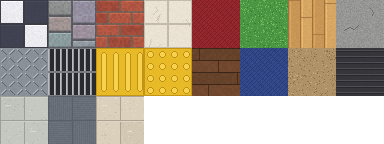
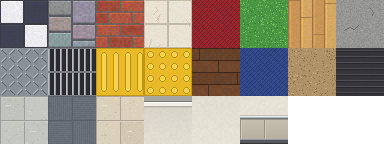
立ち絵を地図の右に移してゲージを外し、教室の壁・黒板・時計・観葉植物を自作で描き直す
Claude-Session: https://claude.ai/code/session_017gxvkc2TW4xYgG5MuSL3N1

Changed region(s): [[0.375, 0.6667, 0.75, 1.0]]

diff --git a/data/maps/escape.js b/data/maps/escape.js
@@ -7,9 +7,9 @@ G.defineMap('escape', {
   name: '夕方の空き教室',
   tiles: [  // 17×13マスの地図のまん中に、床が横11×縦7マスの部屋（まわりは暗い外側）
     '#################',
-    '###44444444447###',
-    '###55555555558###',
-    '###66666666669###',
+    '###UUUUUUUUUU7###',
+    '###VVVVVVVVVV8###',
+    '###WWWWWWWWWW9###',
     '###QQQQQQQQQQP###',  // 床は灰色のPタイル（記号 Q）、扉の前にゴムマット（記号 P）
     '###QQQQQQQQQQQ###',
     '###QQQQQQQQQQQ###',
@@ -21,10 +21,11 @@ G.defineMap('escape', {
     '#################',
   ],
   objects: [
-    { tile: [I, 0, 25, 3, 2], x: 4, y: 1, solid: false },              // 黒板
-    { tile: [I, 0, 25, 3, 2], x: 7, y: 1, solid: false },              // 黒板
-    { tile: [I, 5, 19], x: 11, y: 2, solid: false },                    // 時計
-    { tile: [I, 7, 34, 1, 2], x: 13, y: 9 },                           // 植木
+    // 壁は自作のタイル（記号 U・V・W）。黒板は壁の2段目に置くと目の高さになる
+    { tile: ['objects', 0, 6, 3, 2], x: 4, y: 2, solid: false },       // 黒板
+    { tile: ['objects', 0, 6, 3, 2], x: 7, y: 2, solid: false },       // 黒板
+    { tile: ['objects', 7, 0, 1, 1], x: 11, y: 2, solid: false },      // 掛け時計
+    { tile: ['objects', 3, 6, 1, 1], x: 13, y: 10 },                   // 観葉植物
     // 自作の家具・小物（data/tilesets/objects.js。スチール製）
     { tile: ['objects', 4, 0, 1, 2], x: 3, y: 3, solid: 'bottom' },    // スチール書庫
     { tile: ['objects', 3, 0, 1, 2], x: 4, y: 3, solid: 'bottom' },    // ロッカー
@@ -101,7 +102,7 @@ G.defineMap('escape', {
       ['text', 'ぼたん', 'お酒だったらよかったのになぁ。'],
     ] }] },
     { id: 'plant', x: 13, y: 10, pages: [{ list: [
-      ['text', '', '窓ぎわの植木。'],
+      ['text', '', '教室のすみの観葉植物。'],
       ['text', 'ぼたん', 'ちゃんとお水もらえてるんですかねぇ。'],
     ] }] },
     { id: 'vending', x: 10, y: 4, pages: [{ list: [

diff --git a/data/system.js b/data/system.js
@@ -4,13 +4,13 @@ G.defineSystem({
   subtitle: '（システムとデザインの試作）',
   // タイトル画面の下に出す表示（素材の著作権表示など）
   credits: ['タイル素材：ドット絵世界'],
-  // 画面の配置（画面は816×624）。map：地図の枠、message：文章の枠、portrait：立ち絵の枠、gauge：右端のゲージ
+  // 画面の配置（画面は816×624）。map：地図の枠、message：文章の枠、portrait：立ち絵の枠、gauge：右端のゲージ（いまは使っていない。例 gauge: { x: 787, y: 12, h: 604, var: 'affection', max: 100 }）
   // layout を消すと、地図が全画面で文章が下に重なる配置になる
   layout: {
     map: { x: 14, y: 14, w: 518, h: 432 },
     message: { x: 14, y: 456, w: 518, h: 156 },
-    portrait: { x: 440, y: 0, w: 330, h: 624, default: 'ぼたん' },  // 会話中は話している人、それ以外（地の文も）は default の人（主人公）
-    gauge: { x: 787, y: 12, h: 604, var: 'affection', max: 100 },  // var の変数の値だけ満ちる
+    portrait: { x: 540, y: 0, w: 276, h: 624, default: 'ぼたん' },  // 地図の枠に重ねない（右端まで）。はみ出した髪は枠で切る
+  // 会話中は話している人、それ以外（地の文も）は default の人（主人公）
   },
   // 立ち絵。img に画像（下そろえで枠の高さに合わせる）を書く。img がないと仮の人影
   portraits: {
@@ -71,5 +71,8 @@ G.defineSystem({
     'Q': { tile: ['floor', 0, 2] },   // 灰色のPタイル（大学の教室）
     'R': { tile: ['floor', 1, 2] },   // タイルカーペット
     'S': { tile: ['floor', 2, 2] },   // ベージュのPタイル
+    'U': { solid: true, tile: ['floor', 3, 2] },   // 教室の壁（上：天井の見切り）
+    'V': { solid: true, tile: ['floor', 4, 2] },   // 教室の壁（中）
+    'W': { solid: true, tile: ['floor', 5, 2] },   // 教室の壁（下：腰壁と幅木）
   },
 });

diff --git a/data/tilesets/objects.js b/data/tilesets/objects.js
@@ -1,8 +1,9 @@
-// objects — 自作の家具・小物（tools/sprites/make_objects.py で描いたもの。スチール製を前提に描く。48px、8列×6段）
+// objects — 自作の家具・小物（tools/sprites/make_objects.py で描いたもの。スチール製を前提に描く。48px、8列×8段）
 // 地図では { tile: ['objects', 列, 段, 幅, 高さ], x, y }。置き場所は make_objects.py の OBJECTS の表
 //   0〜1段：自販機（赤）0 / 自販機（青）1 / 冷蔵ショーケース 2 / スチールロッカー 3 / スチール書庫 4 / 書類棚 5 / スチール書棚 6（どれも1×2）、
 //           掛け時計 7（0段）、ごみ箱 7（1段）
 //   2段：長机（3人掛け）0（3×1）、長机（2人掛け）3（2×1）、教卓 5（2×1）、ワゴン 7
 //   3段：椅子（後ろ 0・正面 1・横 2）、パイプ椅子 3、丸テーブル 4、段ボール箱 5、消火器 6
 //   4〜5段：会議机 0（2×2）、スチールの棚 2（2×2）、掲示板 4（4段、2×1）、ホワイトボード 6（4段、2×1）、ソファ 4（5段、2×1）
-G.defineTileset('objects', { src: 'img/tiles/objects.png', size: 48, cols: 8, rows: 6 });
+//   6〜7段：黒板 0（3×2、壁の2段目に置く）、観葉植物 3（6段、1×1）
+G.defineTileset('objects', { src: 'img/tiles/objects.png', size: 48, cols: 8, rows: 8 });

diff --git a/data/tilesets/floor.js b/data/tilesets/floor.js
@@ -1,5 +1,5 @@
 // floor — 自作の床タイル（tools/sprites/make_tiles.py で描いたもの。48px、8列×3段）
 // 1段目：市松 石 レンガ 大理石 赤じゅうたん 人工芝 体育館の床 コンクリート
 // 2段目：縞鋼板 グレーチング 点字ブロック（線） 点字ブロック（点） 濃い木の床 青じゅうたん 土 ゴムマット
-// 3段目：灰色のPタイル タイルカーペット ベージュのPタイル（大学の教室・廊下）
+// 3段目：灰色のPタイル タイルカーペット ベージュのPタイル（大学の教室・廊下）、教室の壁（上・中・下）
 G.defineTileset('floor', { src: 'img/tiles/floor.png', size: 48, cols: 8, rows: 3 });

diff --git a/files.js b/files.js
@@ -2,7 +2,7 @@
 // マップなどを足したら scripts に1行足す（順番どおりに読み込む。main.js は最後）。
 // 版の番号 v は tools/stamp.py が書き換える。
 window.FILES = {
-  v: '20261127072653',
+  v: '20261127073242',
   scripts: [
     'engine/core.js',
     'engine/world.js',

diff --git a/tools/sprites/make_objects.py b/tools/sprites/make_objects.py
@@ -1,4 +1,4 @@
-"""自作の家具・小物を描いて img/tiles/objects.png に書き出す（1マス48px、8列×6段）。
+"""自作の家具・小物を描いて img/tiles/objects.png に書き出す（1マス48px、8列×8段）。
 参考画像は寸法と描き込みの細かさだけ合わせ、デザインは自分で考えたもの（参考画像は写さない・リポジトリに入れない）。
 
 大学の教室・研究棟にある家具として、スチール（塗装した鋼板と、銀色のパイプ）を前提に描く。
@@ -21,7 +21,7 @@ from PIL import Image, ImageDraw
 
 ROOT = Path(__file__).resolve().parents[2]
 T = 48
-im = Image.new('RGBA', (T * 8, T * 6), (0, 0, 0, 0))
+im = Image.new('RGBA', (T * 8, T * 8), (0, 0, 0, 0))
 d = ImageDraw.Draw(im)
 px = im.load()
 OUT = (30, 30, 38)
@@ -591,6 +591,65 @@ def wide_shelf(c, r):     # スチールのオープン棚（2×2）：ファイ
         put(x + 3, yy + 23, (240, 242, 246))
 
 
+def blackboard(c, r):     # 黒板（3×2、壁につける）：アルミの枠、緑の板、消し跡、チョーク受け
+    """壁の中段（地図の y が壁の2段目）に置くと、板の下端が床から約20ドット（約75cm）、高さ約1.5mになる"""
+    x, y = cell(c, r)
+    W = T * 3
+    d.rectangle((x + 2, y + 28, x + W - 3, y + 72), fill=OUT)
+    gfill(x + 3, y + 29, x + W - 4, y + 71, SILVER, kx=(1.1, 0.88), spec=None)
+    d.line((x + 3, y + 29, x + W - 4, y + 29), fill=(240, 244, 250))
+    green = (52, 86, 70)
+    gfill(x + 6, y + 32, x + W - 7, y + 68, green, kx=(1.06, 0.92), ky=(1.04, 0.94), spec=(0.3, 0.18, 0.06), step=0.03)
+    d.line((x + 6, y + 32, x + W - 7, y + 32), fill=sh(green, 0.7))          # 枠の内側の影
+    d.line((x + 6, y + 32, x + 6, y + 68), fill=sh(green, 0.76))
+    rnd = random.Random(c * 7 + r)
+    for _ in range(9):                                                       # 消し跡（横に流れた白いかすれ）
+        sx, sy, ln = rnd.randint(10, W - 40), rnd.randint(36, 62), rnd.randint(14, 30)
+        for k in range(ln):
+            if rnd.random() < 0.7:
+                put(x + sx + k, y + sy + rnd.choice((0, 0, 1)), sh(green, 1.16))
+    for k in range(3):                                                       # うっすら残った字
+        yy = y + 38 + k * 8
+        xx = x + 14 + rnd.randint(0, 20)
+        for j in range(rnd.randint(4, 8)):
+            if rnd.random() < 0.8:
+                d.line((xx + j * 6, yy, xx + j * 6 + 3, yy + rnd.choice((0, 2))), fill=sh(green, 1.3))
+    d.rectangle((x + 1, y + 72, x + W - 2, y + 76), fill=OUT)                # チョーク受け
+    gfill(x + 2, y + 73, x + W - 3, y + 75, SILVER, kx=(1.1, 0.88), ky=(1.2, 0.8), spec=None)
+    for i, col in enumerate(((246, 246, 240), (240, 220, 90), (230, 110, 110))):
+        d.rectangle((x + 20 + i * 7, y + 72, x + 24 + i * 7, y + 73), fill=col)
+    d.rectangle((x + 100, y + 69, x + 112, y + 73), fill=OUT)                # 黒板消し
+    gfill(x + 101, y + 70, x + 111, y + 71, (70, 80, 120), spec=None)
+    d.line((x + 101, y + 72, x + 111, y + 72), fill=(220, 220, 214))
+
+
+def plant(c, r):         # 観葉植物（1×1）：白い陶器の鉢、葉の茂み
+    x, y = cell(c, r)
+    shadow(x + 11, y + 41, x + 37, y + 47)
+    leaf = (70, 140, 70)
+    tube_v(x + 23, y + 24, y + 34, 2, (120, 90, 60))                          # 幹
+    rnd = random.Random(4)
+    blobs = [(24, 10, 9), (15, 16, 8), (33, 16, 8), (19, 24, 7), (30, 25, 7), (24, 18, 8)]
+    for bx, by, rr in blobs:                                                 # 輪郭
+        d.ellipse((x + bx - rr - 1, y + by - rr - 1, x + bx + rr + 1, y + by + rr), fill=OUT)
+    for bx, by, rr in blobs:                                                 # 葉のかたまり（左上が明るい）
+        for yy in range(by - rr, by + rr):
+            for xx in range(bx - rr, bx + rr + 1):
+                dx, dy = (xx - bx) / rr, (yy - by) / rr
+                if dx * dx + dy * dy <= 1:
+                    k = 1.15 - 0.35 * (dx + dy) / 2 - 0.1 * (dy > 0.4)
+                    put(x + xx, y + yy, sh(leaf, round(k / 0.1) * 0.1))
+    for _ in range(40):                                                      # 葉先の光と葉の間の影
+        xx, yy = rnd.randint(9, 39), rnd.randint(2, 31)
+        if px[x + xx, y + yy][3] and px[x + xx, y + yy][:3] != OUT:
+            put(x + xx, y + yy, sh(leaf, rnd.choice((1.45, 0.62))))
+    d.rectangle((x + 15, y + 31, x + 32, y + 45), fill=OUT)                  # 鉢
+    cylinder(x + 16, y + 32, x + 31, y + 44, (232, 230, 224))
+    d.rectangle((x + 14, y + 30, x + 33, y + 33), fill=OUT)                  # 鉢の縁
+    cylinder(x + 15, y + 31, x + 32, y + 32, (244, 242, 238))
+    d.line((x + 17, y + 33, x + 30, y + 33), fill=(70, 54, 40))              # 土
+
+
 # ---------------- 配置（列, 段, 幅, 高さ, 名前）
 OBJECTS = [
     (0, 0, 1, 2, '自販機（赤）', lambda: vending(0, 0, (196, 50, 48), (236, 222, 214))),
@@ -618,6 +677,8 @@ OBJECTS = [
     (4, 4, 2, 1, '掲示板', lambda: board(4, 4, True)),
     (6, 4, 2, 1, 'ホワイトボード', lambda: board(6, 4, False)),
     (4, 5, 2, 1, 'ソファ', lambda: sofa(4, 5)),
+    (0, 6, 3, 2, '黒板', lambda: blackboard(0, 6)),
+    (3, 6, 1, 1, '観葉植物', lambda: plant(3, 6)),
 ]
 
 if __name__ == '__main__':

diff --git a/tools/sprites/make_tiles.py b/tools/sprites/make_tiles.py
@@ -5,6 +5,7 @@
   img/tiles/floor.png … 床タイル 8列×3段（並べても継ぎ目が出ないように描く。記号は system.js の legend の A〜P）
     1段目：市松 石 レンガ 大理石 赤じゅうたん 人工芝 体育館の床 コンクリート
     2段目：縞鋼板 グレーチング 点字ブロック（線） 点字ブロック（点） 濃い木の床 青じゅうたん 土 ゴムマット
+    3段目：灰色のPタイル タイルカーペット ベージュのPタイル（記号 Q〜S）、教室の壁（上・中・下の3段で1枚。記号 U〜W）
 """
 import random
 from pathlib import Path
@@ -263,11 +264,50 @@ def tile_carpet(seed):   # タイルカーペット（50cm角、毛の流れを1
     return im
 
 
+WALL = (230, 226, 214)
+
+
+def wall(part):   # 大学の教室の壁（3段で1枚の壁）：0＝天井の見切りと上の壁、1＝壁、2＝腰見切り・腰壁・幅木
+    im, d = tile(WALL)
+    px = im.load()
+    for y in range(T):   # 上ほどわずかに暗い（天井の陰）
+        k = {0: 0.93 + 0.05 * y / T, 1: 0.98 + 0.02 * y / T, 2: 1.0}[part]
+        for x in range(T):
+            px[x, y] = shade(WALL, k)
+    noise(im, 0.012, 30 + part, 2)
+    if part == 0:
+        d.rectangle((0, 0, T - 1, 4), fill=(168, 166, 160))          # 天井
+        d.line((0, 5, T - 1, 5), fill=(120, 118, 114))
+        d.rectangle((0, 6, T - 1, 9), fill=(240, 238, 230))          # 廻り縁
+        d.line((0, 6, T - 1, 6), fill=(252, 252, 248))
+        d.line((0, 10, T - 1, 10), fill=shade(WALL, 0.78))
+        d.line((0, 11, T - 1, 11), fill=shade(WALL, 0.88))
+    if part == 2:
+        d.line((0, 19, T - 1, 19), fill=shade(WALL, 0.84))           # 腰見切りの上の影
+        d.rectangle((0, 20, T - 1, 22), fill=(176, 180, 188))       # 腰見切り（スチール）
+        d.line((0, 20, T - 1, 20), fill=(236, 240, 246))
+        d.line((0, 22, T - 1, 22), fill=(112, 116, 124))
+        base = (194, 186, 170)
+        for y in range(23, 43):                                      # 腰壁（下ほど暗い）
+            k = 1.02 - 0.08 * (y - 23) / 20
+            for x in range(T):
+                px[x, y] = shade(base, k)
+        for x0 in (0, 24):                                           # 板の継ぎ目
+            d.line((x0, 23, x0, 42), fill=shade(base, 0.78))
+            d.line((x0 + 1, 23, x0 + 1, 42), fill=shade(base, 1.08))
+        d.line((0, 23, T - 1, 23), fill=shade(base, 0.8))
+        d.rectangle((0, 43, T - 1, 47), fill=(86, 86, 94))          # 幅木
+        d.line((0, 43, T - 1, 43), fill=(150, 152, 160))
+        d.line((0, 47, T - 1, 47), fill=(50, 50, 58))
+    return im
+
+
 FLOORS = [
     checker, stone, brick, marble, lambda: carpet((150, 40, 46), (124, 30, 36), 6), turf, gym, concrete,
     checkered_plate, grating, lambda: tactile(False), lambda: tactile(True), dark_wood,
     lambda: carpet((52, 74, 140), (40, 58, 116), 7), soil, rubber,
     lambda: ptile((196, 198, 192), 21), lambda: tile_carpet(22), lambda: ptile((214, 204, 184), 23),
+    lambda: wall(0), lambda: wall(1), lambda: wall(2),
 ]
 
 

diff --git a/CLAUDE.md b/CLAUDE.md
@@ -3,7 +3,7 @@
 ブラウザで動く自作のアドベンチャー／RPGエンジンと、その中身。ビルドは不要で、`index.html` を開けば動く。GitHub Pages で公開している。
 
 - 登場人物の設定と口調は `data/CHARACTERS.md`。会話はこれに合わせて書く（ぼたん：大学1年・20歳、かなでを「先輩」と呼ぶ、ですます調で「〜ですねぇ」「〜したいなぁ」、酔うとタメ口、お酒好き。かなで：大学院生・24歳、「ぼたんちゃん」と呼ぶ、「〜だもの」「〜わね」、お酒は弱くタバコ好き、インテリで内向的、世話焼き。同じ学生寮の先輩と後輩）
-- いまのゲームは、ひと部屋の「夕方の空き教室」（大学。`data/maps/escape.js`）で、システムとデザインの土台づくりの段階（謎解きはまだ入れない。家具は調べると一言出るだけ）。登場人物はぼたん（主人公、botan_chibi）とかなで（kanade_chibi）の2人だけ。かなでに話しかけると4つの会話から1つが出る。部屋は17×13マスの地図のまん中に床が横11×縦7マス（まわりは暗い外側。tools/check.js が地図の横幅17マス以上を求めるため）。調べられるものの「！」は距離に関係なく常に出す（system.js の sensor: { always: true }）。立ち絵はコードで描かない（図形の組み合わせではアニメの立ち絵の水準にならない）。ユーザーが用意した画像（例：かなでは ChatGPT で生成したもの）を `python3 -I tools/sprites/cut_portrait.py 元.png img/portraits/名前.png` で白い背景を抜いて余白を切り詰め、system.js の portraits の img に書く（crop で腰から上などを切り抜いて枠の高さいっぱいに拡大できる。かなでは腰の帯の下まで、ぼたんも顔の大きさがそろうよう全身の高さの同じ割合（約48%）。立ち絵は地図の枠に重ねて手前に出す。会話中は話している人の立ち絵、それ以外（地の文も）は主人公ぼたん（layout.portrait.default）。黒い背景の絵は cut_portrait.py の最後に black をつける。crop がないと全身を枠に収める。イラストはなめらかに描き、ドット絵の立ち絵だけ pixel: true で補正を切る）
+- いまのゲームは、ひと部屋の「夕方の空き教室」（大学。`data/maps/escape.js`）で、システムとデザインの土台づくりの段階（謎解きはまだ入れない。家具は調べると一言出るだけ）。登場人物はぼたん（主人公、botan_chibi）とかなで（kanade_chibi）の2人だけ。かなでに話しかけると4つの会話から1つが出る。部屋は17×13マスの地図のまん中に床が横11×縦7マス（まわりは暗い外側。tools/check.js が地図の横幅17マス以上を求めるため）。調べられるものの「！」は距離に関係なく常に出す（system.js の sensor: { always: true }）。立ち絵はコードで描かない（図形の組み合わせではアニメの立ち絵の水準にならない）。ユーザーが用意した画像（例：かなでは ChatGPT で生成したもの）を `python3 -I tools/sprites/cut_portrait.py 元.png img/portraits/名前.png` で白い背景を抜いて余白を切り詰め、system.js の portraits の img に書く（crop で腰から上などを切り抜いて枠の高さいっぱいに拡大できる。かなでは腰の帯の下まで、ぼたんも顔の大きさがそろうよう全身の高さの同じ割合（約48%）。立ち絵は地図の枠に重ねず、その右（layout.portrait の x 540〜816）に出す。はみ出した髪は枠で切る。ゲージは使わない（layout から外した）。会話中は話している人の立ち絵、それ以外（地の文も）は主人公ぼたん（layout.portrait.default）。黒い背景の絵は cut_portrait.py の最後に black をつける。crop がないと全身を枠に収める。イラストはなめらかに描き、ドット絵の立ち絵だけ pixel: true で補正を切る）
 - 中身（部屋・会話・アイテム）は `data/` に書く。書式は `DATA_FORMAT.md` に全部ある
 - エンジンは `engine/`（core 入力・音・ループ／world 部屋・キャラ・イベント起動・条件・描画／interpreter 命令／ui 文章・選択肢・メニュー・セーブ・タイトル）
 - 新しい命令は `engine/interpreter.js` の `CMD` に足し、`DATA_FORMAT.md` にも書く。条件を足したら `tools/check.js` の `COND_KEYS` も直す
@@ -14,8 +14,8 @@
 - タイル素材（ドット絵世界）は二次配布禁止。元のPNGは入れず、`tools/encode_tileset.py` で変換した `data/tilesets/*.js` だけを入れる。タイトル画面の著作権表示（system.js の credits）は消さない
 - キャラの歩行グラフィックは、いまはちびキャラ（手本：RPGツクールMVの標準キャラの比率、約1.5頭身、1コマ48×48px）。`tools/sprites/make_chibi.py` で描き、`img/chars/haru_chibi.png`・`img/chars/yui_chibi.png` に書き出す。塗りは手本と同じくっきりしたドット絵（48×48pxに直接描く。ベタ塗り、段をつけた影と光、部品ごとに1ドットの濃い輪郭、目は1ドットずつ形を決め、白い光はほぼ使わず外側の白目と上が濃い瞳で表す。髪のかたまりは小さめで額は高め、前髪には毛束の明るい筋を1本おきに入れて凹凸を出す。女子の髪は5段（光・明・中・暗・影）で束ごとに塗り分ける（make_chibi.py の hair_shade。頭頂はつむじから放射状の束で境目に暗い線、頭の丸みに沿って束ごとに上下へずれたギザギザの天使の輪（束の真ん中だけ光の色）、前髪は束ごとに上が明るく下ほど暗く真ん中に光の筋、横・後ろの髪は縦の束で左が明るく右と下が暗い。髪型が手本と違うので、ここは手本を写さず工夫したもの）。胴は肩が細く裾へ広がる八の字で、腕も外へ開く。前髪の毛先は目の上端に接するまで下ろし、真ん中の毛束だけ短くしてそのすき間から額をのぞかせる。前髪のすぐ下の肌には影（1段目は影色、2段目は中間色）。顔の横の髪で、目の外側の端からあごの近くまで顔を縁取る（男子は細く短め）。肌は桃色がかった色（白っぽくしない）。顔は上下と左右に4段（明・中間・影・濃い影）の明暗をドット単位でつけて立体感を出す（前髪の下は中間色→目の下から頬の段がいちばん明るい→その下は中間色→あごの段は影色。左右の端は内側へ濃い影→影→中間色、頬の段は影を1段多く）。目はまるごと見せる。やや上から見下ろしつつ足先まで全身を見せる（胴→スカート／ズボン→脚1ドット（女子は肌色）→靴2ドット（上が明るく下が暗い）。左右の足は幅5ドット（輪郭＋中身3）で間に1ドットのすき間。歩くと上げた足が1ドット上がる）。目は顔の大きさを変えずに大きく、5×5ドット（上まつげは3ドット幅で2段目が内側へ1ドットずれる斜め、黒目3ドット幅で上が濃く一番下が明るい、真ん中に縦2ドットの瞳孔、白目は外側3段・内側2段の両側）。目の間は7ドットで、目の外側は顔の縁（横の髪）に接する。見下ろす角度なので、肩はあごのすぐ下の行から始まり（上の面が明るく見える）、なで肩で下へ広がる。手は丸ではなくミトン形（幅4×高さ5、外側の輪郭は茶色・内側と下は濃い線で腕と胴の境目にもなる、明るい肌は真ん中上寄りに2×2、下の段の内側が欠けてその上に親指の付け根の点）。服の輪郭も濃い色。男子はシャツ6段・ベルト1段・ズボン3段（明るめの色、股の線）。女子のスカートは下半分に、地より濃い色の縦の折り目の線（中心をはさんで4ドット間隔の2本と、裾の両端寄り）。口は省いて、鼻は中心の1ドット右に縦2ドットの薄い影（30〜31行、肌の中間色と影色の間の色）で表す（真ん中に濃い点を置くと口に見える）。頬の赤みは鼻より下（32〜33行）に置く（高い位置に置くと鼻が口に見える）。幅の割合は、手を含めた体が頭の約8割。その中で胴は細く、肩と手を大きめにする）。横向き（左向き、前がマイナス）は、顔と胴の形を make_chibi.py の「行ごとの前端・後端の表」（FACE_SIDE・TORSO_SIDE_* など）で決める。手本を拡大して各行の端の位置を測り、その数字をそのまま表に書く（楕円や多角形で近似しない）。横顔は鼻筋がまっすぐ縦に続いたあと鼻で1ドット前に出て（鼻筋から下は顔より前に髪の輪郭を残さない）、その下で輪郭1ドット分の落差をつけてあごへ。あごは34行で終わり（下に出っ張らせない）、前の縁は輪郭線なしで濃い肌色、あごの下だけ濃い輪郭。目は make_chibi.py の EYE_SIDE の表で描く（手本を1ドットずつ測った作り：x −9〜−4、24〜29行。茶色の上まぶたの線が目尻まで続き、黒いまつげ、前の縁は黒、黒目は2ドット幅で上の段に瞳孔、白目は白と灰色の2列、目尻は濃い影の肌、いちばん下の段は明るい黒目。女子は目尻の列が髪にかかる）。目の前端は鼻筋から肌4ドット後ろ。耳のまわりは make_chibi.py の EAR_SIDE_BOY／EAR_SIDE_GIRL の表で描く（手本を1ドットずつ測った作り：縦長のアーモンド形の耳で、上の縁は茶色、前の縁は黒、真ん中がいちばん明るい。耳の前はもみあげの髪で、顔側の縁は暗い髪色。もみあげの下の縁は耳の前から左下へ下りる黒い斜めの線（女子はあごの近くまで垂れる）。耳の下はあご・首の肌が後ろへ続き、その後ろの髪は影の色）。前髪は make_chibi.py の BANGS_SIDE の表で描く（手本を1ドットずつ測った作り：x −16〜+3、10〜26行。前の縁は黒ではなく暗い髪色で、上から前へふくらみ、いちばん前の束は26行まで垂れて顔の前を覆う。前・真ん中・耳の前の3本の束に分かれ、束の間から21〜24行で肌がのぞく。18行から下は束の境目に暗い線、光は前上と後ろ寄りの2か所。色は5段に置き換える）。明暗は前の縁が濃い影、前寄りの頬が最も明るく、耳に近い後ろほど暗い。女子の後ろ髪はあごの高さまで。胴は上が細く（36行で9〜10ドット）前の縁を斜めに下へ広げ、スカート・ズボンの広さとの落差を出す。手は胴の中ほどより後ろに4×5ドット。足元はスカート・ズボンの裾の輪郭が45行、その下は脚1段＋靴1段の2段だけ（46・47行）。靴は脚より1ドット前に出たつま先で表し、輪郭は黒ではなく靴の暗い色。立ち姿は前後の足が並び（46行 −5〜+2、47行 −6〜+2）、歩きのコマ（0・2）の足まわりは make_chibi.py の WALK_SIDE_BOY／WALK_SIDE_GIRL の表で描く（手本を1ドットずつ測った作り：男子は裾が前後の脚に分かれて間に黒い線、前の靴が大きく前に出て3段、後ろの足は脚の上に靴。女子はスカートが歩きに合わせて広がり46行まで下がって、その下は靴だけ。ハルは長ズボンなので手本の素足の部分はズボンの色）。後ろ向きは make_chibi.py の back_frame が tools/sprites/back_tables.py の表から描く（表は gen_back_tables.py で手本の後ろ向きを役割ごとの記号に書き起こしたもの。手本の中心の列（−1）をうちの中心で3列に広げて左右の幅を正面とそろえる。ハルは長ズボンなので足元の肌はズボンの色。ユイは手本のカチューシャを消して頭の上を丸いドームに削り、リボンを左上に足す）。手本を使うときは、拡大して絵そのものを見比べるのに加えて、行ごとの端の位置（前端・後端・上下の終わり）を手本とうちで並べて書き出し、1行ずつずれを確かめてから直す（ざっくりした観察で済ませない）。手順はいつも次のとおりにし、ユーザーに細かく指示されなくても全部やってから報告する：(1) `python3 -I tools/sprites/compare_ref.py 手本.png 向き コマ [行 行 列 列]` で、行ごとの左右の端を手本の男子・ハル・手本の女子・ユイで並べ、指定範囲を色の記号で書き出す（拡大画像は /tmp/compare_*.png）。(2) 部分（頭の形・前髪・目・鼻・耳・首元・肩・胴・手・裾・足）ごとに、端の位置と色の作りを手本と照らす。(3) 違う部分は、形は行ごとの端の表、中身は手本から書き起こした記号の表で描く（色はキャラごとに置き換える）。(4) 直したら同じ道具で全行を確かめ直す。基準は、左の端が手本と同じで、右の端は左右対称（手本の中心は −1、うちは 0 なので手本より右に2ドット広い）。歩きのコマのように手本が左右非対称な行は「右の端が手本より2ドット外」。(5) 歩きの3コマ・4方向とも同じことをする。手本の画像はユーザーがアップロードしたもの（作業環境の uploads）で、リポジトリには入れない。端は肌の色だけでなく、髪や輪郭も含めた「透明でない最も外側の点」で測る（肌だけ測ると、顔の前にはみ出した髪の輪郭で鼻が平らになっているのを見落とす）。「イラストを縮めた柔らかい塗り」は4頭身のための試しで、ちびキャラには使わない。3頭身・4頭身は見送り。約4頭身の版（`make_trial.py`→`trial.png`、`make_haru.py`→`haru.png`）も残してある。手本の絵は写さない（比率と描き方だけ合わせる）。直したらスクリプトを動かして画像を作り直す
 - 新しいキャラを足すときは、make_chibi.py の CHARS に1項目足すだけでよい（girl=True/False と色：髪 hair1/hair2/hairL/hairLine、女子は髪の5段 tones、瞳 iris1〜3、服 top1/top2/topLine、ズボン・スカート low1/low2、靴 shoe1/shoe2、リボン ribbon1/ribbon2）。目・顔の明暗・髪の束の塗り分け・横顔・耳・手・足・歩き・後ろ姿は、絵を貼るのではなく決まりと表から描くので、どのキャラにも自動でつく。顔がみな同じにならないよう、目の型を eye で選ぶ（無し＝ハル・ユイの目、'tare'＝控えめなたれ目、'tare2'＝しっかりたれ目（上まつげが目頭から目尻へ斜めに下がる）、'tsuri'＝つり目。make_chibi.py の EYE_TYPES に正面と横向きの表があり、型を足すのはここ）。頬の赤みは cheek=False で消せる。そのほか設定で選べるもの：long（太ももまでの長い後ろ髪。体より先に描く層で、縦の束で塗る）、ahoge（頭の上のとがった毛束）、bows（頭の左右の大きなリボンと垂れた帯。色は ribbon1/ribbon2）、mouth='open'（笑った口）、turtleneck（うね編みの高い襟）、sleeves（手の上を覆う長い袖口）、pleats=False（スカートの折り目なし）、tie=False（胸のリボンなし）、hairclip=False（ユイの髪留めなし）。long_len（長い後ろ髪の毛先の行。44＝太もも、39＝胸のあたり）、long_style（'straight'＝まっすぐ下りる、'fluffy'＝肩の外までふくらむ。横向きでも形が変わり（まっすぐは背中に沿って細く、ふんわりは広がる）、長い髪の子は横向きにあごまでのボブの形を描かない。bangs='straight' は横向きでも額をのぞかせない。後ろ向きは、土台の表の髪は頭の上（20行より上）だけ使い、首から下はこの設定から描き直すので、髪型が後ろ姿にも出る。髪型の型を足したら必ず後ろ向きも確かめる）、bangs='straight'（額を覆うまっすぐな前髪。両目の間に少し長い毛束）、eye='almond'（横長で縦に1段細いアーモンド形の目）、pinafore（ブラウスの上に太い肩ひも2本とウエストの帯のジャンパースカート。肩ひもとスカートは low1/low2）、longskirt（裾を1段下げた長いスカート）、legColor（脚の色。靴下など）。肌の色（skin1/skin2/skinS/handO）やまつげの色（lash）もキャラごとに上書きできる。キャラの見た目はユーザーが文章で細かく指定する方式（例：botan_chibi）。いま選べる髪型は男子（ツンツンの短髪）と女子（ボブと顔の横の髪）の2つ。別の髪型や服の形がほしいときは、その部分だけ新しい型として足す（キャラごとに決めるのはそこだけ）。試しに mio_chibi・sota_chibi を色だけで作ってある（ゲームではまだ使っていない）。手本の全12コマを記号の表に書き起こす gen_ref_tables.py と、それを土台に描く make_from_ref.py もある（手本そのままの体・顔を土台にしたいとき用）
-- 自作のタイルは `tools/sprites/make_tiles.py` で描く（見本の絵は写さず、種類だけ参考にする）。img/tiles/own.png（階段）と img/tiles/floor.png（床16種類、8列×2段、並べても継ぎ目が出ない）。床は system.js の legend の記号 A〜P（市松・石・レンガ・大理石・赤じゅうたん・人工芝・体育館・コンクリート・縞鋼板・グレーチング・点字ブロック線・点・濃い木・青じゅうたん・土・ゴムマット）と、大学用の Q〜S（灰色のPタイル・タイルカーペット・ベージュのPタイル。3段目）で地図に使える。教室の床は Q
-- 自作の家具・小物は `tools/sprites/make_objects.py` で描く（参考画像は寸法と描き込みの細かさだけ合わせ、デザインは自分で考える。参考画像は写さない・入れない）。大学の家具として、すべてスチール（塗装鋼板と銀色のパイプ）を前提に描く：段のついたグラデーション（左上が明るく右下が暗い）に縦の照り返しの帯、縁の光と影、凹みは上と左が暗い、パイプと円筒は断面の明暗、床に半透明の影。寸法は1ドット≒3.5〜4cm（机の天板は床から約19ドット、椅子の座面は約12ドット、長机は1人1マス）。img/tiles/objects.png（8列×6段）に25種類（自販機2・冷蔵ショーケース・ロッカー・スチール書庫・書類棚・スチール書棚は1×2、長机3人掛け3×1・2人掛け2×1、教卓・掲示板・ホワイトボード・ソファは2×1、会議机・スチールの棚は2×2、椅子3向き・パイプ椅子・丸テーブル・ワゴン・ごみ箱・掛け時計・段ボール箱・消火器は1×1）。置き場所の一覧は data/tilesets/objects.js。教室には長机（3人掛け）2列×2段と後ろ向きの椅子、教卓、書庫、ロッカー、自販機、ごみ箱を置いている
+- 自作のタイルは `tools/sprites/make_tiles.py` で描く（見本の絵は写さず、種類だけ参考にする）。img/tiles/own.png（階段）と img/tiles/floor.png（床16種類、8列×2段、並べても継ぎ目が出ない）。床は system.js の legend の記号 A〜P（市松・石・レンガ・大理石・赤じゅうたん・人工芝・体育館・コンクリート・縞鋼板・グレーチング・点字ブロック線・点・濃い木・青じゅうたん・土・ゴムマット）と、大学用の Q〜S（灰色のPタイル・タイルカーペット・ベージュのPタイル。3段目）で地図に使える。教室の床は Q。教室の壁は自作の U・V・W（上：天井の見切り、中、下：腰見切り・腰壁・幅木の3段で1枚。floor.png の3段目）
+- 自作の家具・小物は `tools/sprites/make_objects.py` で描く（参考画像は寸法と描き込みの細かさだけ合わせ、デザインは自分で考える。参考画像は写さない・入れない）。大学の家具として、すべてスチール（塗装鋼板と銀色のパイプ）を前提に描く：段のついたグラデーション（左上が明るく右下が暗い）に縦の照り返しの帯、縁の光と影、凹みは上と左が暗い、パイプと円筒は断面の明暗、床に半透明の影。寸法は1ドット≒3.5〜4cm（机の天板は床から約19ドット、椅子の座面は約12ドット、長机は1人1マス）。img/tiles/objects.png（8列×8段）に27種類（自販機2・冷蔵ショーケース・ロッカー・スチール書庫・書類棚・スチール書棚は1×2、長机3人掛け3×1・2人掛け2×1、教卓・掲示板・ホワイトボード・ソファは2×1、会議机・スチールの棚は2×2、椅子3向き・パイプ椅子・丸テーブル・ワゴン・ごみ箱・掛け時計・段ボール箱・消火器は1×1）。置き場所の一覧は data/tilesets/objects.js。黒板（3×2）は壁の2段目に置くと目の高さ（板の下端が床から約75cm）になり、掛け時計も壁の2段目。観葉植物は1×1。教室には黒板2枚、掛け時計、長机（3人掛け）2列×2段と後ろ向きの椅子、教卓、書庫、ロッカー、自販機、ごみ箱、観葉植物を置いている（扉だけ元のタイル素材）
 - 字体：ゲームの文字は M+ 1m（`fonts/mplus-1m-regular.ttf`、M+ FONTS は自由に使用・配布できる）。`G.font()` と css/style.css で指定している。収録外の文字（♪など）は端末のフォントになる
 - 公開は gh-pages ブランチから。更新したら、まず `python3 tools/stamp.py`（files.js の版の番号を新しくする。ブラウザが古いファイルを使い回して新旧が混ざるのを防ぐ）、コミットして `git push origin main main:gh-pages` で両方に送る。そのあと `gh api repos/nzanke/game-test/actions/runs` で「pages build and deployment」が新しいコミットで completed success になったのを確かめてから報告する。ビルドが走らないときは空のコミットを送り直す（Pages 設定のAPIは作業環境から使えない）
 - やりとりと説明は日本語で
